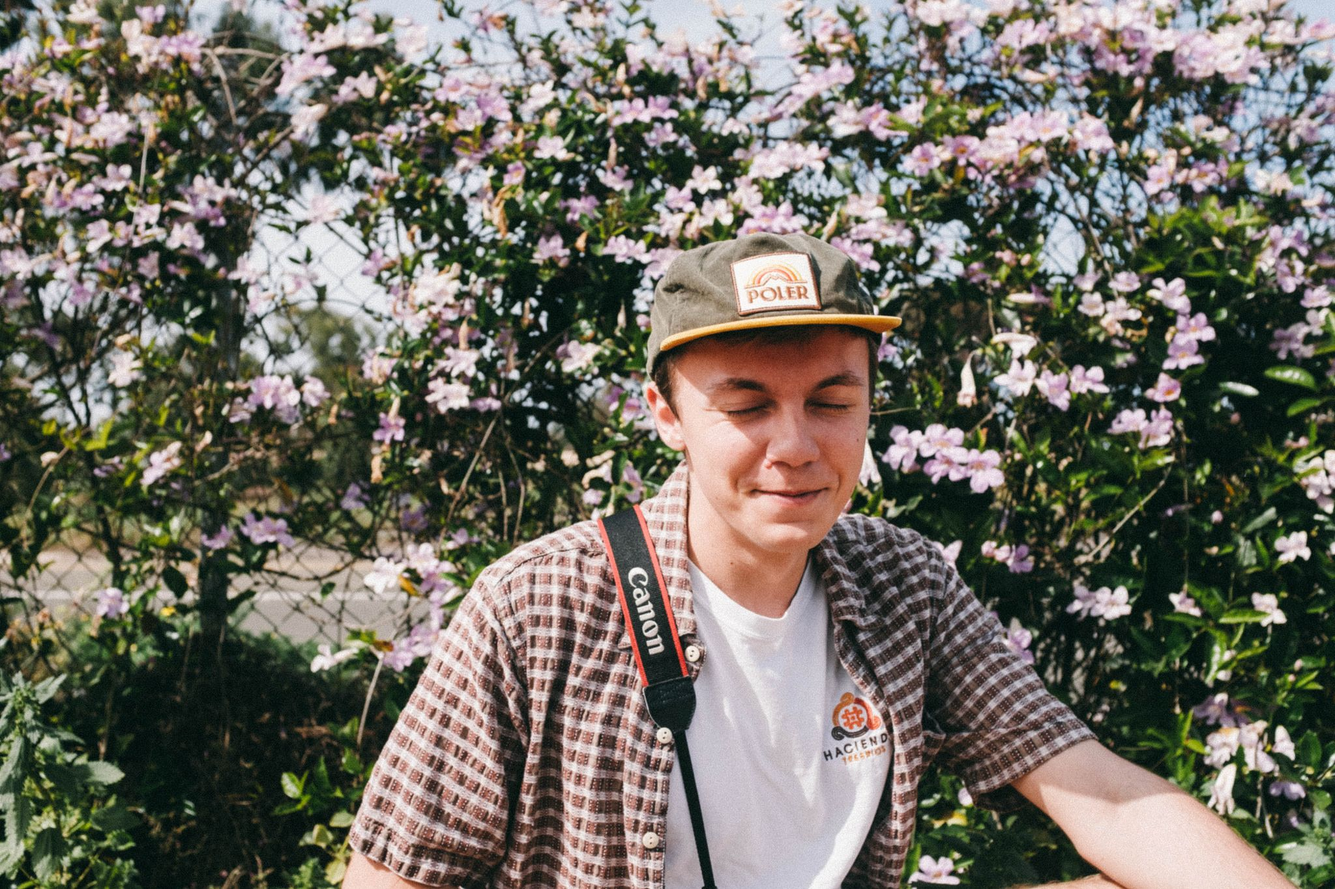
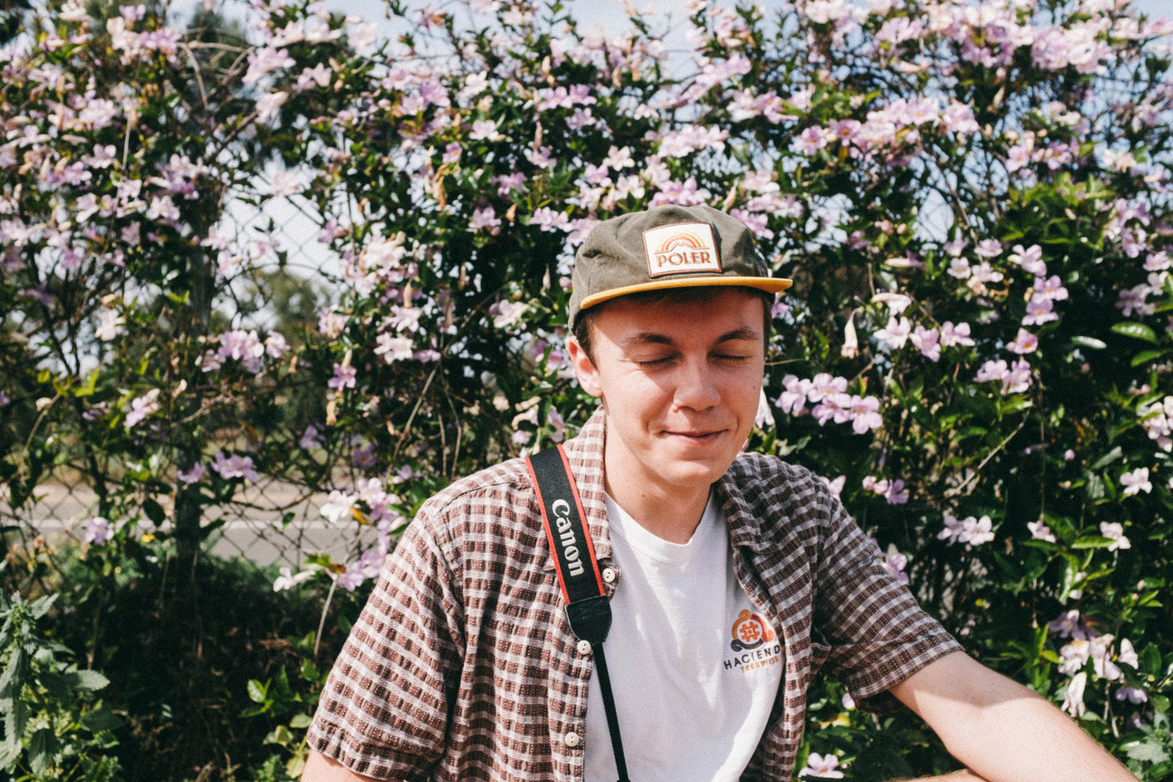
j

diff --git a/ehr.html b/ehr.html
@@ -61,9 +61,9 @@
               <label class="accordion-header"><span class="text-gray-optical">PROJECTS</span></label>
               <div class="accordion-body">
                 <ul class="menu menu-nav" id = "dynamic-menu">
-                  <li class="menu-item"><a id="menu-link" class="menu-1" href="">Foundry</a></li>
+                  <li class="menu-item"><a id="menu-link" class="menu-1 active-link" href="">Foundry</a></li>
                   <li class="menu-item"><a id="menu-link" class="menu-2" href="">Collective Health</a></li>
-                  <li class="menu-item"><a id="menu-link" class="menu-3 active-link" href="">Red Share</a></li>
+                  <li class="menu-item"><a id="menu-link" class="menu-3" href="">Red Share</a></li>
                   <li class="menu-item"><a id="menu-link" class="menu-4" href="">Code &amp; Art</a></li>
                   <li class="menu-item"><a id="menu-link" class="menu-5" href="">UW Capstone</a></li>
                   <li class="menu-item"><a id="menu-link" class="menu-6" href="">Light &amp; Form</a></li>
@@ -79,46 +79,37 @@
         <div class="docs-content" id="content">
           <div class="container" id="introduction">
 
-            <section id="siteHeader" >
-              <h2>Red Share <span class="grayText">Installation</span></h2>
-              <p>An installation &amp; Google Chrome extension exploring our Internet-fueled paranoia</p>
+            <section id="siteHeader">
+              <h2>Empowering Parents<span class="grayText"> Healthcare Design</span></h2>
+              <p>My proposal for a generative font manipulation product</p>
             </section>
 
             <div class="spacer-50"></div>
 
             <div class="portfolio revealer">
-                <img style="max-height: 450px; padding-bottom:0px;"id="hoverChange" class="image-crop revealer " src="img/sp/setup.jpg"  alt="...">
+                <img style="max-height: 450px; padding-bottom:0px;"id="hoverChange" class="image-crop revealer " src="img/ehr/looking-at-comp.jpg"  alt="...">
                 <div class="grid-reverse revealer">
                   <div class="info-chunk">
-                    <h4 class="h4-multiline"><span class="grayText">Premise</span><br>Inspired by Russian-fueled cultural paranoia, I created an interactive gallery piece that amplifies distortion and questions truth in the social media age.  </h4>
+                    <h4 class="h4-multiline"><span class="grayText">Challenge</span><br>How might we empower parents to make the right care decisions for their children by improving information accessibility and communication?</h4>
                   </div>
                 </div>
 
                   <div class="grid revealer">
                     <div class="info-chunk">
                       <p class="text-upper">Role</p>
-                      <span class="chip active">Artist</span>
+                      <span class="chip active">Designer & Researcher</span>
 
                       <div class="chip-list">
-                        <span class="chip">Javascript</span>
-                        <span class="chip">Facebook</span>
-                        <span class="chip">Google Chrome</span>
+                        <span class="chip">Sketch App</span>
+                        <span class="chip">Python</span>
+                        <span class="chip">After Effects</span>
                       </div>
                     </div>
 
                     <div class="info-chunk">
                       <p class="text-upper">About</p>
-                      <p>Gallery visitors are invited to sit down, log in to their Facebook account, and witness a total distortion of their newsfeed, messages, and even their own profiles. A Google Chrome extension injects hateful and disturbing rhetoric into friend's posts, and images are replaced with 1980s cultural and political relics. The browser window wobbles and glitches at random, violently streaking the screen with flashes of red. The CRT monitor produces a piercing high-pitched whine that fills the room.</p>
-                      <p>Red Share was exhibited in March 2018 at the Visual Arts Facility at UC San Diego. Thanks to <a class="tooltip tooltip-bottom" data-tooltip="amy-alexander.com" target="_blank" href="http://amy-alexander.com/">Amy Alexander</a> and <a class="tooltip tooltip-bottom" data-tooltip="cargocollective.com" target="_blank" href="https://cargocollective.com/yoldas">Pinar Yoldas</a> for their guidance.</p>
-                    </div>
-
-                  </div>
-
-                  <div style="padding-bottom: 50px;">
-
-                    <div style="overflow-x: auto; white-space: nowrap;" class="grid-reverse revealer invScroll">
-                      <img style="margin-bottom:25px" class="revealer " src="img/sp/close.jpg" />
-                      <img style="margin-bottom:25px" class="revealer " src="img/sp/keyboard.jpg" />
+                      <p>For a school project, I had previously written a Python command-line tool that let me manipulate fonts by altering the arrangement and parameters of their bezier curves and control points.</p>
+                      <p>To take the project a step further, I later designed a full UI based off of that code, focusing on a mix of interaction design and visual design. I pursued the project to practice building a product from the ground up, and within the technical constraints set by my own program.</p>
                     </div>
                   </div>
 
@@ -127,7 +118,7 @@
 
                   <div class="grid-reverse revealer">
                     <div class="info-chunk">
-                      <h4 class="h4-multiline"><span class="grayText">Documentation in progress</span></h4>
+                      <h4 class="h4-multiline"><span class="grayText">Project in progress – will be uploaded soon</span></h4>
                     </div>
                  </div>
                </div>

diff --git a/explore.html b/explore.html
@@ -91,14 +91,14 @@
 
             <div class="portfolio revealer">
 
-                <img style="padding-bottom:0px;"id="hoverChange" class="image-crop revealer " src="img/explore/printshop.jpg"  alt="...">
+                <img style="max-height: 450px; padding-bottom:0px;"id="hoverChange" class="image-crop revealer " src="img/explore/printshop.jpg"  alt="...">
             </div>
 
 
 
             <div class="masonry ">
                <div class="item revealer"><img class="image-crop-mason" src="img/explore/phone.jpg" data-echo="img/explore/phone.jpg"></div>
-               <div class="item revealer"><img class="image-crop-mason" src="img/explore/pool.jpg" data-echo="img/explore/pool.jpg"></div>
+               <!-- <div class="item revealer"><img class="image-crop-mason" src="img/explore/pool.jpg" data-echo="img/explore/pool.jpg"></div> -->
                <div class="item revealer"><img class="image-crop-mason" src="img/explore/comp.jpg" data-echo="img/explore/comp.jpg"></div>
                <div class="item revealer"><img class="image-crop-mason" src="img/explore/light.jpg" data-echo="img/explore/light.jpg"></div>
                <div class="item revealer"><img class="image-crop-mason" src="img/explore/congrats.jpg" data-echo="img/explore/congrats.jpg"></div>
@@ -118,7 +118,7 @@
                <div class="item revealer"><img class="image-crop-mason" src="img/explore/lyft.jpg" data-echo="img/explore/lyft.jpg"></div>
                <div class="item revealer"><img class="image-crop-mason" src="img/explore/studyjam.jpg" data-echo="img/explore/studyjam.jpg"></div>
                <div class="item revealer"><img class="image-crop-mason" src="img/explore/moto.jpg" data-echo="img/explore/moto.jpg"></div>
-               <div class="item revealer"><img class="image-crop-mason" src="img/explore/ethics.jpg" data-echo="img/explore/ethics.jpg"></div>
+               <!-- <div class="item revealer"><img class="image-crop-mason" src="img/explore/ethics.jpg" data-echo="img/explore/ethics.jpg"></div> -->
                <div class="item revealer"><img class="image-crop-mason" src="img/explore/brad.png" data-echo="img/explore/brad.png"></div>
                <div class="item revealer"><img class="image-crop-mason" src="img/explore/coupon.jpg" data-echo="img/explore/coupon.jpg"></div>
                <div class="item revealer"><img class="image-crop-mason" src="img/explore/rhps.jpg" data-echo="img/explore/rhps.jpg"></div>
@@ -129,14 +129,9 @@
                <div class="item revealer"><img class="image-crop-mason" src="img/explore/dark.jpg" data-echo="img/explore/dark.jpg"></div>
                <div class="item revealer"><img class="image-crop-mason" src="img/explore/saturn.jpg" data-echo="img/explore/saturn.jpg"></div>
 
+               <div class="item revealer"><img class="image-crop-mason" src="img/explore/ttv.gif" data-echo="img/explore/ttv.gif"></div>
 
-
-
-
-
-
-
-               <div class="item revealer"><img class="image-crop-mason" src="img/explore/insta.jpg" data-echo="img/explore/insta.jpg"></div>
+               <!-- <div class="item revealer"><img class="image-crop-mason" src="img/explore/insta.jpg" data-echo="img/explore/insta.jpg"></div> -->
                <div class="item revealer"><img class="image-crop-mason" src="img/explore/home-dark.jpg" data-echo="img/explore/home-dark.jpg"></div>
                <div class="item revealer"><img class="image-crop-mason" src="img/explore/ProcessingYellow.gif" data-echo="img/explore/ProcessingYellow.gif"></div>
                <div class="item revealer"><img class="image-crop-mason" src="img/explore/search.jpg" data-echo="img/explore/search.jpg"></div>

diff --git a/foundry.html b/foundry.html
@@ -87,7 +87,7 @@
             <div class="spacer-50"></div>
 
             <div class="portfolio revealer">
-                <img style="padding-bottom:0px;"id="hoverChange" class="image-crop revealer " src="img/foundry.jpg"  alt="...">
+                <img style="max-height: 450px; padding-bottom:0px;"id="hoverChange" class="image-crop revealer " src="img/foundry.jpg"  alt="...">
                 <div class="grid-reverse revealer">
                   <div class="info-chunk">
                     <h4 class="h4-multiline"><span class="grayText">My Goal</span><br>Create a thorough and original product proposal for a font generation app, based off of my own Python program. </h4>

diff --git a/collective.html b/collective.html
@@ -90,7 +90,7 @@
 
             <div class="portfolio revealer">
 
-                <img style="padding-bottom:0px;"id="hoverChange" class="image-crop revealer " src="img/collective/hero.jpg"  alt="...">
+                <img style="max-height: 450px; padding-bottom:0px;"id="hoverChange" class="image-crop revealer " src="img/collective/hero.jpg"  alt="...">
 
                 <div class="grid-reverse revealer">
                   <div class="info-chunk">

diff --git a/about.html b/about.html
@@ -85,7 +85,7 @@
             </section>
 
             <div class="spacer-50"></div>
-            <img id="hoverChange" class="image-crop revealer " src="img/strawb.jpg"  alt="...">
+            <img style="max-height: 450px;" id="hoverChange" class="image-crop revealer " src="img/strawb.jpg"  alt="...">
 
             <div class="grid revealer">
               <div class="info-chunk">
